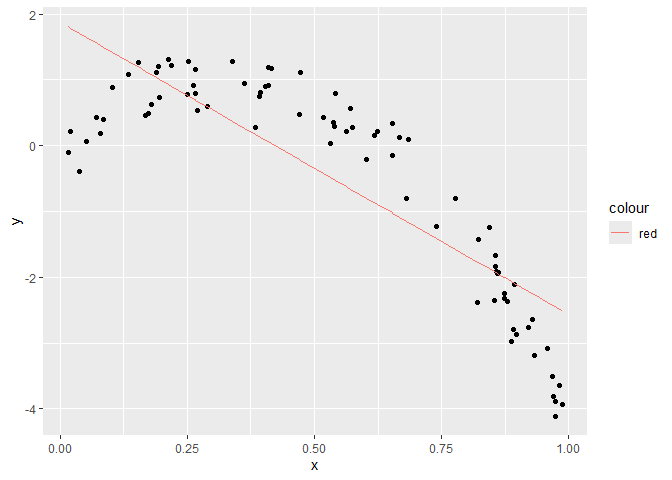
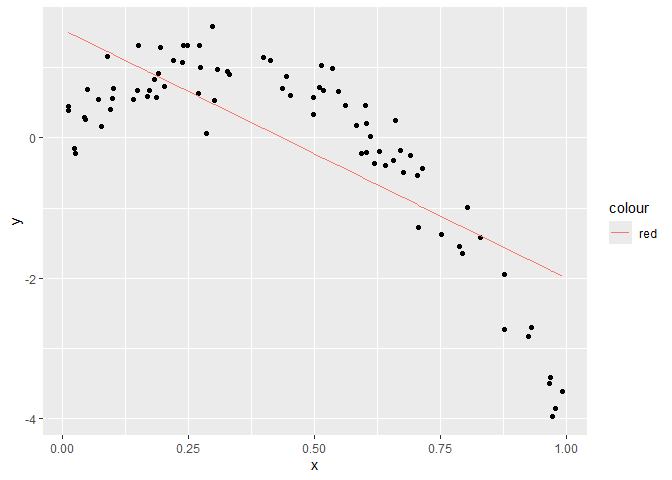
fitting models cross validation

diff --git a/cross_validation.md b/cross_validation.md
@@ -128,3 +128,153 @@ train_df %>%
 ``` r
 # gather predictions for fitting the models simultaneously 
 ```
+
+Looking at prediction accuracy
+
+``` r
+rmse(linear_mod, test_df) #computes a root mean square  error 
+```
+
+    ## [1] 0.7137613
+
+``` r
+rmse(smooth_df, test_df) # does the best for the particuar training and testing split
+```
+
+    ## [1] 0.3781075
+
+``` r
+rmse(wigggly_mod, test_df) # chases noise
+```
+
+    ## [1] 0.3618895
+
+Cross validation picks among the three models and smooth does the best,
+can’t think that it’s nested within the model We have comparing models
+like aic , not a p-value but how do we compare models like prediction
+accuracy to say one model compares to other predictions.
+
+## Cross validation using the `modelr` package
+
+``` r
+# we can do repeats and write a function to repeat and modlr generates the testing of training data sets. 
+
+cv_df = 
+  crossv_mc(nonlin_df, 100)  # here we have train, test and id 
+```
+
+What is happening here? We are resampling and drawing samples that
+already exist
+
+``` r
+cv_df %>% 
+  pull(train) %>% # pull the train column
+  .[[1]] %>%  # we are checking the first element of this list  
+  as_tibble()  # force this to be a tibble 
+```
+
+    ## # A tibble: 79 × 3
+    ##       id     x      y
+    ##    <int> <dbl>  <dbl>
+    ##  1     1 0.112  1.31 
+    ##  2     2 0.793 -1.66 
+    ##  3     3 0.548  0.668
+    ##  4     4 0.992 -3.62 
+    ##  5     5 0.220  1.10 
+    ##  6     6 0.640 -0.397
+    ##  7     7 0.239  1.32 
+    ##  8     8 0.816 -1.32 
+    ##  9     9 0.671 -0.174
+    ## 10    10 0.715 -0.440
+    ## # ℹ 69 more rows
+
+``` r
+cv_df %>% pull(test) %>% .[[1]] %>%as_tibble() # resulting 7 are here 
+```
+
+    ## # A tibble: 21 × 3
+    ##       id      x      y
+    ##    <int>  <dbl>  <dbl>
+    ##  1    17 0.327   0.950
+    ##  2    20 0.449   0.845
+    ##  3    27 0.529   0.471
+    ##  4    29 0.878  -1.95 
+    ##  5    30 0.0427  0.298
+    ##  6    31 0.0769  0.162
+    ##  7    36 0.972  -3.97 
+    ##  8    38 0.907  -3.03 
+    ##  9    44 0.829  -1.42 
+    ## 10    47 0.498   0.330
+    ## # ℹ 11 more rows
+
+``` r
+# structure of the cross is to have two list columns side by side, the training for a particular split, testing for a particular split , id for the split and then same thing etc. Instead of trying to store as hundred dataset, just stored as row numbers but we will convert back to a tibble. 
+```
+
+``` r
+cv_df =
+  cv_df %>% 
+  mutate(
+    train = map(train, as_tibble),
+    test = map(test, as_tibble))
+ # re-sample objects and you can do that in lm but not mcgv gam function so we have to do this step
+```
+
+Lets try to fit models and get RMSE’s for them
+
+``` r
+cv_df = cv_df %>% 
+  mutate(
+    linear_mod = map(.x = train, ~lm(y ~ x, data = .x)), # we want to fit for each element so we will map across
+    smooth_mod = map(.x = train, ~gam(y ~ s(x), data = .x)),  # made new variables linear, smooth etc and place below
+    wiggly_mod = map(.x = train, ~gam(y ~ s(x, k = 30), sp = 10e-6, data = .x))
+  ) %>%  #produces a list column with linear models  # we want to do a similar thing with the smooth and wiggly 
+mutate(
+   rmse_linear = map2_dbl( .x = linear_mod, .y = test, ~rmse(model = .x, data = .y)),
+   rmse_smooth = map2_dbl( .x = smooth_mod,  .y = test, ~rmse(model = .x, data = .y)),
+   rmse_wiggly = map2_dbl( .x = wiggly_mod,.y = test, ~rmse(model = .x, data = .y))
+  #map2_dbl just gives the numbers, map2 gives the list
+)
+
+
+# in general which model is better?
+```
+
+What do the results say about model choice?
+
+``` r
+cv_df %>% 
+  select(starts_with("rmse")) %>% 
+  pivot_longer(
+    everything(),
+    names_to = "model",
+    values_to = "rmse",
+    names_prefix = "rmse_"
+  ) %>% 
+  ggplot(aes(x = model, y=rmse))+ 
+  geom_violin()  # we have a distribution across 100 training sets and looks like linear model makes worse predictions , the smooth and wiggly are on the right track and then smooth model is doing the best. 
+```
+
+![](cross_validation_files/figure-gfm/unnamed-chunk-13-1.png)<!-- -->
+
+Compute the averages
+
+``` r
+cv_df %>% 
+  select(starts_with("rmse")) %>% 
+  pivot_longer(
+    everything(),
+    names_to = "model",
+    values_to = "rmse",
+    names_prefix = "rmse_"
+  ) %>% 
+  group_by(model) %>% 
+  summarize(avg_rmse = mean(rmse))
+```
+
+    ## # A tibble: 3 × 2
+    ##   model  avg_rmse
+    ##   <chr>     <dbl>
+    ## 1 linear    0.834
+    ## 2 smooth    0.335
+    ## 3 wiggly    0.405
